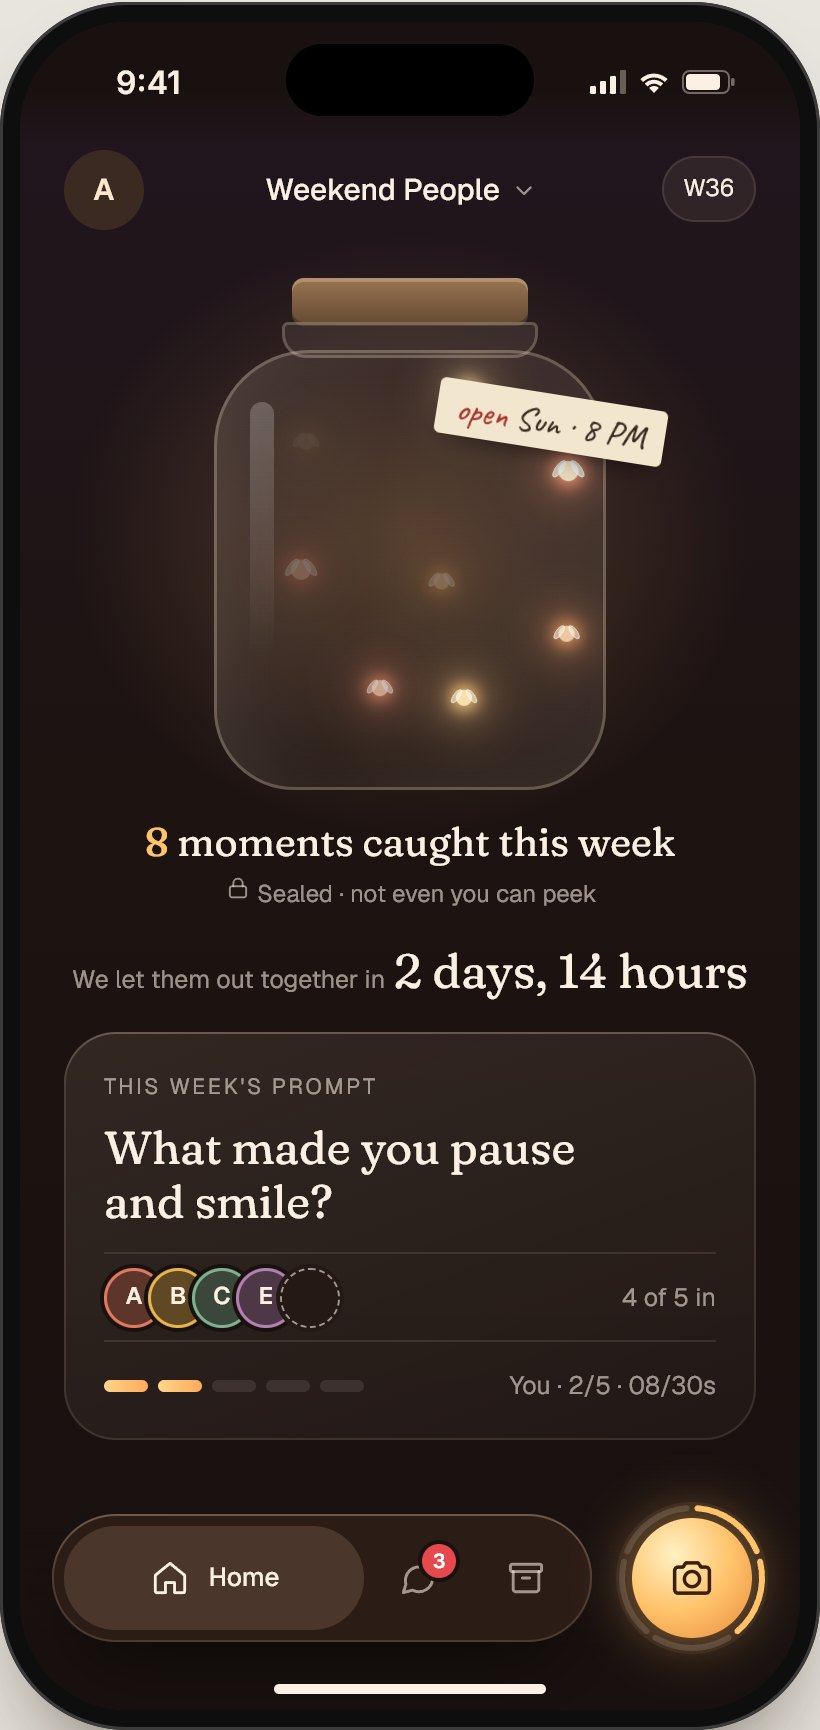
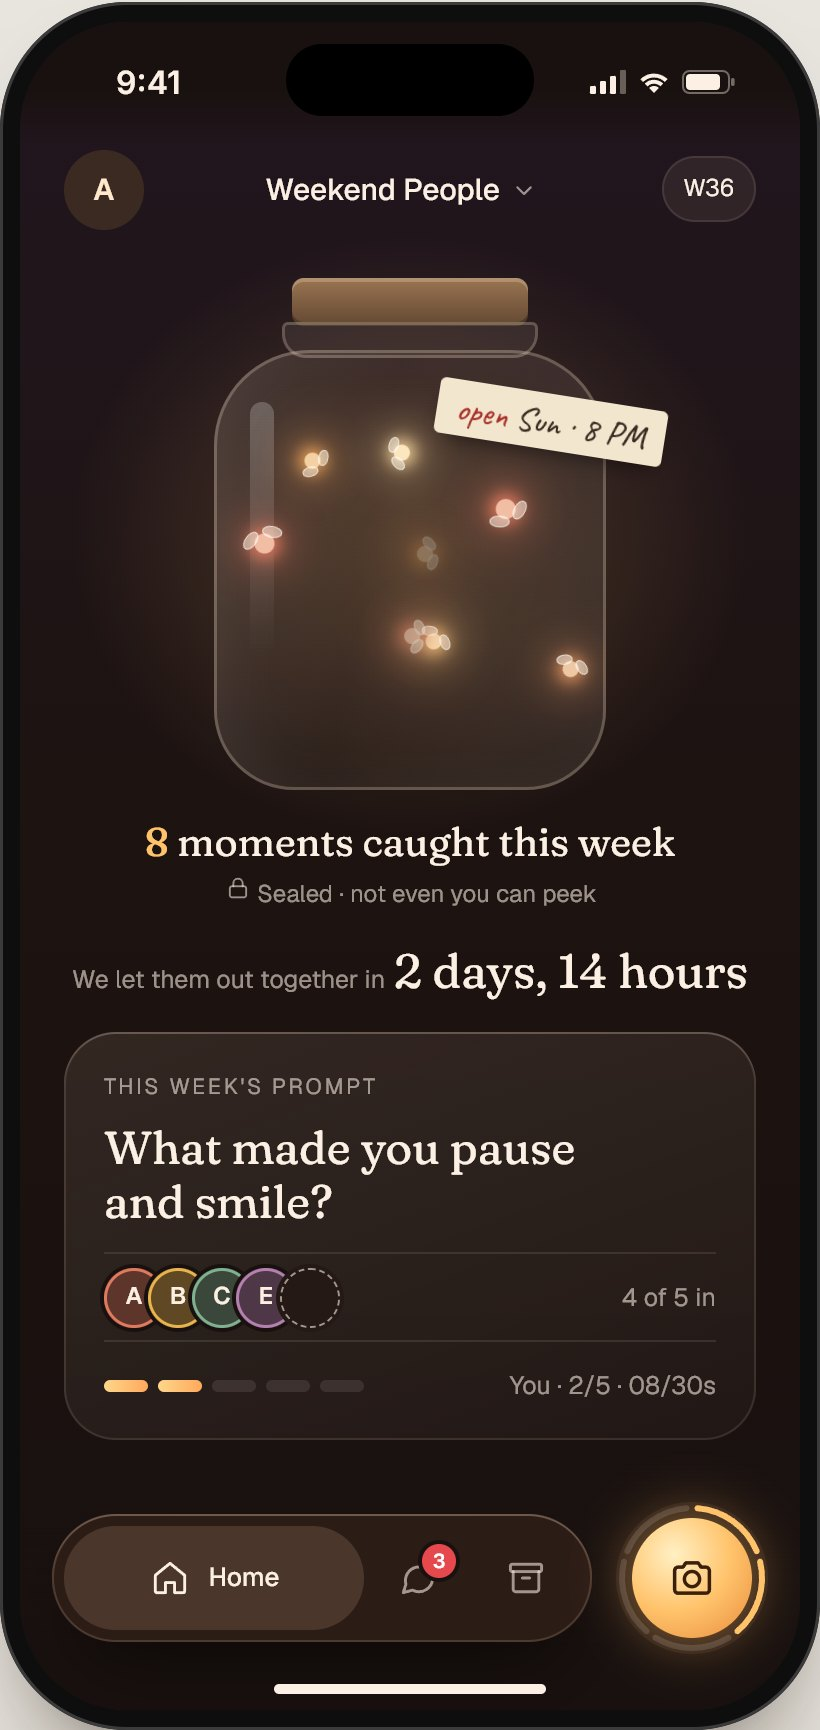
Point fireflies along their flight path
Fireflies now face the way they fly, turn smoothly through corners with
a little random wobble, and rest at varied angles instead of all sitting
upright. The fireflies that fly into the jar and out at the reveal face
their path too.

diff --git a/docs/design/home-directions/app.js b/docs/design/home-directions/app.js
@@ -567,7 +567,7 @@ const bodies = {
     const fl = moments(d)
       .map(
         (mo, i) =>
-          `<i class="fly${mo.mine ? ' mine' : ''}" style="--mc:${tintOf(mo, d, i)};--k:${i};--ex:${((i % 5) - 2) * 22}px;left:${8 + ((i * 37 + 11) % 80)}%;top:${10 + ((i * 53 + 7) % 78)}%;animation-delay:${-((i * 0.9) % 6).toFixed(1)}s;animation-duration:${5 + (i % 4)}s"></i>`,
+          `<i class="fly${mo.mine ? ' mine' : ''}" style="--mc:${tintOf(mo, d, i)};--k:${i};--r:${((i * 67) % 360) - 180}deg;--ex:${((i % 5) - 2) * 22}px;left:${8 + ((i * 37 + 11) % 80)}%;top:${10 + ((i * 53 + 7) % 78)}%;animation-delay:${-((i * 0.9) % 6).toFixed(1)}s;animation-duration:${5 + (i % 4)}s"></i>`,
       )
       .join('');
     return `
@@ -993,8 +993,31 @@ const rand = (a, b) => a + Math.random() * (b - a);
 const clampTo = (v, a, b) => Math.max(a, Math.min(b, v));
 const flyXY = (f) => {
   const m = new DOMMatrix(getComputedStyle(f).transform);
-  return { x: m.m41, y: m.m42 };
+  return { x: m.m41, y: m.m42, a: (Math.atan2(m.b, m.a) * 180) / Math.PI };
 };
+// 朝向：头对着飞行方向（翅膀长在背上，所以 +90°）；相邻角度取最近的等价值，避免猛甩一圈
+const nearAngle = (prev, a) => {
+  while (a - prev > 180) a -= 360;
+  while (a - prev < -180) a += 360;
+  return a;
+};
+function headings(pts, start, wobble = 0) {
+  const out = [];
+  let prev = start ?? 0;
+  pts.forEach((_, i) => {
+    const a0 = pts[Math.max(0, i - 1)],
+      a1 = pts[Math.min(pts.length - 1, i + 1)];
+    let ang = (Math.atan2(a1.y - a0.y, a1.x - a0.x) * 180) / Math.PI + 90 + rand(-wobble, wobble);
+    ang = nearAngle(prev, ang);
+    if (i === 0 && start !== undefined) ang = start;
+    else if (i === 1 && start !== undefined) ang = (start + ang) / 2; // 起步时先转一半，转向更柔
+    out.push(ang);
+    prev = ang;
+  });
+  return out;
+}
+const flyTf = (x, y, a) =>
+  `translate(${x.toFixed(1)}px, ${y.toFixed(1)}px) rotate(${a.toFixed(1)}deg)`;
 function flyPos(root) {
   const m = {};
   root?.querySelectorAll('.card').forEach((card) => {
@@ -1018,14 +1041,16 @@ function startFlies(root, keep = {}) {
       const kind = f.classList.contains('mine') ? 'mine' : 'other';
       // 有旧位置就接着飞；多出来的那只从瓶口进来；首次渲染用初始位置
       const p = left
-        ? left[kind].shift() || { x: JAR_W / 2 - 4, y: 6 }
+        ? left[kind].shift() || { x: JAR_W / 2 - 4, y: 6, a: rand(150, 210) }
         : {
             x: (parseFloat(f.style.left) / 100) * JAR_W,
             y: (parseFloat(f.style.top) / 100) * JAR_H,
+            a: parseFloat(f.style.getPropertyValue('--r')) || rand(-180, 180),
           };
       f.classList.add('js');
       f._p = p;
-      f.style.transform = `translate(${p.x}px, ${p.y}px)`;
+      f._a = p.a;
+      f.style.transform = flyTf(p.x, p.y, p.a);
       setTimeout(() => wander(f), rand(0, 600));
       setTimeout(() => blink(f), rand(0, 2500));
     });
@@ -1046,14 +1071,18 @@ function wander(f) {
     x: clampTo((p.x + q.x) / 2 + rand(-34, 34), 8, JAR_W - 18),
     y: clampTo((p.y + q.y) / 2 + rand(-34, 34), 12, JAR_H - 20),
   };
-  const frames = [];
+  const pts = [];
   for (let i = 0; i <= 8; i++) {
     const t = i / 8,
       u = 1 - t;
-    const x = u * u * p.x + 2 * u * t * c.x + t * t * q.x;
-    const y = u * u * p.y + 2 * u * t * c.y + t * t * q.y;
-    frames.push({ transform: `translate(${x.toFixed(1)}px, ${y.toFixed(1)}px)` });
+    pts.push({
+      x: u * u * p.x + 2 * u * t * c.x + t * t * q.x,
+      y: u * u * p.y + 2 * u * t * c.y + t * t * q.y,
+    });
   }
+  // 头跟着飞行方向转，再加几度随机晃动，像在扑腾
+  const angs = headings(pts, f._a, 9);
+  const frames = pts.map((pt, i) => ({ transform: flyTf(pt.x, pt.y, angs[i]) }));
   const dist = Math.hypot(q.x - p.x, q.y - p.y);
   const a = f.animate(frames, {
     duration: 600 + dist * rand(16, 34),
@@ -1063,7 +1092,8 @@ function wander(f) {
   a.onfinish = () => {
     if (!f.isConnected || f.dataset.free) return;
     f._p = q;
-    f.style.transform = `translate(${q.x}px, ${q.y}px)`;
+    f._a = angs[angs.length - 1];
+    f.style.transform = flyTf(q.x, q.y, f._a);
     a.cancel();
     setTimeout(() => wander(f), Math.random() < 0.3 ? rand(400, 1600) : rand(0, 120));
   };
@@ -1083,7 +1113,7 @@ function blink(f) {
 // 揭晓：每只从当前位置绕向瓶口，再依次飞出去
 function freeFlies(scr) {
   scr.querySelectorAll('.c9 .jar .fly').forEach((f, i) => {
-    const p = f.classList.contains('js') ? flyXY(f) : { x: JAR_W / 2, y: JAR_H / 2 };
+    const p = f.classList.contains('js') ? flyXY(f) : { x: JAR_W / 2, y: JAR_H / 2, a: 0 };
     f.dataset.free = '1';
     f.getAnimations().forEach((a) => a.cancel());
     f.classList.add('js');
@@ -1094,13 +1124,14 @@ function freeFlies(scr) {
       y: clampTo((p.y + neck.y) / 2 + rand(-10, 20), 40, JAR_H - 30),
     };
     const out = { x: neck.x + rand(-130, 130), y: rand(-360, -260) };
-    const tr = (o) => `translate(${o.x.toFixed(1)}px, ${o.y.toFixed(1)}px)`;
+    const angs = headings([p, mid, neck, out], p.a, 6);
+    const tr = (o, i) => flyTf(o.x, o.y, angs[i]);
     f.animate(
       [
-        { transform: tr(p), opacity: 1 },
-        { transform: tr(mid), opacity: 1, offset: 0.35 },
-        { transform: tr(neck), opacity: 1, offset: 0.6 },
-        { transform: tr(out), opacity: 0 },
+        { transform: tr(p, 0), opacity: 1 },
+        { transform: tr(mid, 1), opacity: 1, offset: 0.35 },
+        { transform: tr(neck, 2), opacity: 1, offset: 0.6 },
+        { transform: tr(out, 3), opacity: 0 },
       ],
       { duration: rand(2400, 3400), delay: 500 + i * 90, easing: 'ease-in', fill: 'forwards' },
     );
@@ -1480,52 +1511,37 @@ function dotFly(scr, from, to, color, o = {}) {
     dy = to.y - from.y;
   const c0 = { background: color, boxShadow: glow(color) };
   const c1 = toColor ? { background: toColor, boxShadow: glow(toColor) } : c0;
-  const frames = wander
+  // [x, y, 缩放, 透明度, 颜色, 时间点]
+  const P = wander
     ? [
-        { transform: 'translate(0,0) scale(.4)', opacity: 0, ...c0, offset: 0 },
-        {
-          transform: `translate(${dx * 0.3}px, ${dy * 0.15 - 40}px) scale(1.2)`,
-          opacity: 1,
-          ...c0,
-          offset: 0.22,
-        },
-        {
-          transform: `translate(${dx * 0.55 + 46}px, ${dy * 0.4 + 16}px) scale(1)`,
-          opacity: 0.6,
-          ...c0,
-          offset: 0.42,
-        },
-        {
-          transform: `translate(${dx * 0.8 - 34}px, ${dy * 0.62 - 34}px) scale(1.15)`,
-          opacity: 1,
-          ...c0,
-          offset: 0.62,
-        },
-        { transform: `translate(${dx}px, ${dy - 26}px) scale(1)`, opacity: 1, ...c0, offset: 0.8 },
-        {
-          transform: `translate(${dx}px, ${dy + 18}px) scale(.8)`,
-          opacity: 1,
-          ...c1,
-          offset: 0.93,
-        },
-        { transform: `translate(${dx}px, ${dy + 26}px) scale(.6)`, opacity: 0, ...c1, offset: 1 },
+        [0, 0, 0.4, 0, c0, 0],
+        [dx * 0.3, dy * 0.15 - 40, 1.2, 1, c0, 0.22],
+        [dx * 0.55 + 46, dy * 0.4 + 16, 1, 0.6, c0, 0.42],
+        [dx * 0.8 - 34, dy * 0.62 - 34, 1.15, 1, c0, 0.62],
+        [dx, dy - 26, 1, 1, c0, 0.8],
+        [dx, dy + 18, 0.8, 1, c1, 0.93],
+        [dx, dy + 26, 0.6, 0, c1, 1],
       ]
     : [
-        { transform: 'translate(0,0) scale(.4)', opacity: 0, ...c0 },
-        {
-          transform: `translate(${dx * 0.25 - 30}px, ${dy * 0.15 - 30}px) scale(1.3)`,
-          opacity: 1,
-          ...c0,
-          offset: 0.25,
-        },
-        {
-          transform: `translate(${dx * 0.7}px, ${dy * 0.6 - 40}px) scale(1)`,
-          opacity: 1,
-          ...c0,
-          offset: 0.7,
-        },
-        { transform: `translate(${dx}px, ${dy}px) scale(.5)`, opacity: 0, ...c1 },
+        [0, 0, 0.4, 0, c0, 0],
+        [dx * 0.25 - 30, dy * 0.15 - 30, 1.3, 1, c0, 0.25],
+        [dx * 0.7, dy * 0.6 - 40, 1, 1, c0, 0.7],
+        [dx, dy, 0.5, 0, c1, 1],
       ];
+  // 萤火虫头朝飞行方向；普通光点不需要朝向
+  const angs = firefly
+    ? headings(
+        P.map(([x, y]) => ({ x, y })),
+        undefined,
+        6,
+      )
+    : null;
+  const frames = P.map(([x, y, sc, op, col, off], k) => ({
+    transform: `translate(${x.toFixed(1)}px, ${y.toFixed(1)}px)${angs ? ` rotate(${angs[k].toFixed(1)}deg)` : ''} scale(${sc})`,
+    opacity: op,
+    ...col,
+    offset: off,
+  }));
   return play(d, frames, { duration: dur, easing: 'cubic-bezier(.35,.6,.3,1)' }).then(() =>
     d.remove(),
   );

diff --git a/docs/design/home-directions/styles-fx.css b/docs/design/home-directions/styles-fx.css
@@ -409,3 +409,8 @@
   top: 0 !important;
   animation: none;
 }
+
+/* 静止时（截图、未启动动效）各自朝向不同 */
+.c9 .jar .fly:not(.js) {
+  rotate: var(--r, 0deg);
+}
